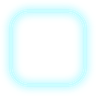
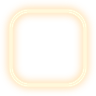
Arsenal: weapons fit the stand, wrapped role text; warm focus ring; key-press staging for menu shots
Every previewed weapon is scaled to the same length and height limits, so a
pistol no longer fills the booth. The role line wraps inside the signboard.
The keyboard-focus ring is warm white with an amber glow, so it is never
mistaken for the cyan outline of the selected card. --shot-keys presses a
sequence of actions or keys on a menu page and prints page and focus after
each (keyboard-only navigation check).

Claude-Session: https://claude.ai/code/session_01SCRRpWjW3y18cioXXPmzyr

diff --git a/tools/gen_ui_textures.py b/tools/gen_ui_textures.py
@@ -295,15 +295,16 @@ def card(name, fill, border, border_w, glow=None):
 
 
 def focus_ring():
-    """Cyan focus outline with glow, drawn outside the control. Margin 30, pad 14."""
+    """Keyboard-focus outline, drawn outside the control: warm white with an
+    amber glow, so it never reads as the cyan of a selected card. Margin 30, pad 14."""
     w = h = 96
     pad = 14
     a = blank(w, h)
     outer = rrect(w, h, (pad - 5, pad - 5, w - pad + 5, h - pad + 5), 20)
     inner = rrect(w, h, (pad - 1, pad - 1, w - pad + 1, h - pad + 1), 16)
     ring = np.clip(outer - inner, 0, 1)
-    over(a, hexc("#35f0ff", 0.6), blur(ring, 4))
-    over(a, hexc("#c8fbff"), ring)
+    over(a, hexc("#ffb23e", 0.75), blur(ring, 4))
+    over(a, hexc("#fff6d8"), ring)
     save(a, "focus_ring", w, h)
 
 

diff --git a/docs/UI_STYLE.md b/docs/UI_STYLE.md
@@ -42,7 +42,7 @@ the right or bottom edge; use anchors and containers. All sizes below are canvas
 | Constant | Hex | Use |
 | --- | --- | --- |
 | `UiKit.PINK` | `#ff3fa4` | The primary action, selection of toggles, "NEW" |
-| `UiKit.CYAN` | `#35f0ff` | Focus ring, selected card, active slot, section captions |
+| `UiKit.CYAN` | `#35f0ff` | Selected card, active slot, section captions |
 | `UiKit.AMBER` | `#ffc24a` | Warnings, locks, level, mastery, titles of dialogs |
 | `UiKit.TEAL` / `UiKit.METAL` | `#17a3a3` / `#2b918c` | Secondary buttons, painted metal |
 | `UiKit.CREAM` | `#fff3dc` | Sign lettering and body text on dark panels |
@@ -102,8 +102,9 @@ deploy.pressed.connect(_deploy)
 
 `UiKit.button()` and `UiKit.soft_button()` (older names) return the pink and teal sign
 buttons. Every `SignButton` grows 4% and sends a shine across on hover **or keyboard
-focus**, squashes when pressed, shows the cyan focus ring, greys out when `disabled`, and
-plays its own sounds. One pink button per screen.
+focus**, squashes when pressed, shows the focus ring (warm white with an amber glow, so it
+is never mistaken for the cyan of a selection), greys out when `disabled`, and plays its
+own sounds. One pink button per screen.
 
 Icons in `art/ui`: `icon_spark`, `icon_lock`, `icon_gear`, `icon_power`, `icon_home`,
 `icon_play`, `icon_film`, `icon_tutorial`, `icon_arrow_left/right`, `icon_check`,
@@ -157,8 +158,8 @@ card.selected = true                 # cyan outline (one per group)
 card.pressed.connect(_select.bind(item))
 ```
 
-States: normal, hover (lighter rim, +3.5%), focus (cyan ring), selected (cyan outline and
-glow), locked (dim picture, amber padlock line). Cards go in a `metal_frame()`.
+States: normal, hover (lighter rim, +3.5%), focus (warm white ring), selected (cyan
+outline and glow), locked (dim picture, amber padlock line). Cards go in a `metal_frame()`.
 
 ### Stats, bars, tabs
 
@@ -231,7 +232,7 @@ theirs; call these only for your own interactions (`UiSound.equip()` after equip
 ## Focus and navigation
 
 Everything interactive must be reachable without a mouse. Kit controls are focusable and
-show the cyan ring. Name the control that should start with focus `FirstFocus` (or
+show the focus ring. Name the control that should start with focus `FirstFocus` (or
 override `first_focus()`); keep neighbours in reading order (containers do this for you);
 use `UiKit.scroll()` so focus scrolls lists. In the menu, Esc / BACK goes back, Q / E
 (PageUp / PageDown, shoulder buttons) step through the sections of the top bar.
